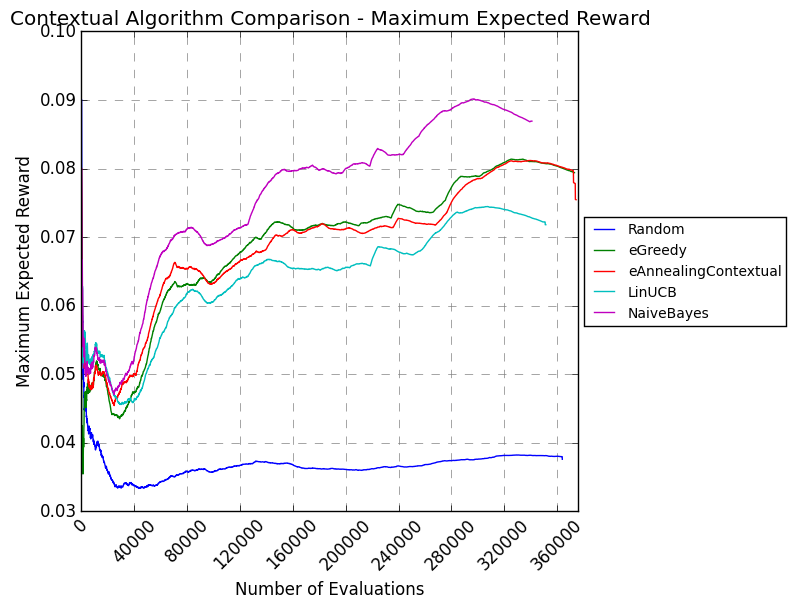
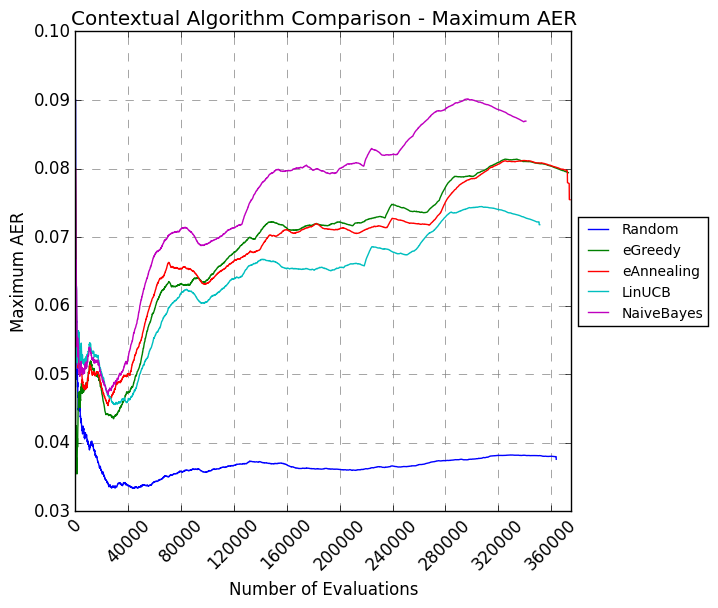
More tweaks to improve plot labels, titles, etc.

diff --git a/create_stdev_aer_plot_contextual.py b/create_stdev_aer_plot_contextual.py
@@ -14,14 +14,14 @@ data = np.genfromtxt('banditStDevAERSummary.csv', delimiter=',', names = True)
 fig = plt.figure()
 ax = fig.add_subplot(111)
 
-ax.set_title("Contextual Algorithm Comparison - Standard Deviation of Expected Reward")
+ax.set_title("Contextual Algorithm Comparison - Standard Deviation of AER")
 ax.set_xlabel('Number of Evaluations')
-ax.set_ylabel('Standard Deviation of Expected Reward')
+ax.set_ylabel('Standard Deviation of AER')
 
 ax.plot(data['t'],data['Random'], label='Random')
 ax.plot(data['t'],data['eGreedyContextual01'], label='eGreedy')
-ax.plot(data['t'],data['eAnnealingContextual'], label='eAnnealingContextual')
-#ax.plot(data['t'],data['SoftmaxContextual'], label='SoftmaxContextual')
+ax.plot(data['t'],data['eAnnealingContextual'], label='eAnnealing')
+#ax.plot(data['t'],data['SoftmaxContextual'], label='Softmax')
 ax.plot(data['t'],data['LinUCB01'], label='LinUCB')
 ax.plot(data['t'],data['NaiveBayesContextual'], label='NaiveBayes')
 

diff --git a/create_var_aer_plot_contextual.py b/create_var_aer_plot_contextual.py
@@ -14,14 +14,14 @@ data = np.genfromtxt('banditVarAERSummary.csv', delimiter=',', names = True)
 fig = plt.figure()
 ax = fig.add_subplot(111)
 
-ax.set_title("Contextual Algorithm Comparison - Variance of Expected Reward")
+ax.set_title("Contextual Algorithm Comparison - Variance of AER")
 ax.set_xlabel('Number of Evaluations')
-ax.set_ylabel('Variance of Expected Reward')
+ax.set_ylabel('Variance of AER')
 
 ax.plot(data['t'],data['Random'], label='Random')
 ax.plot(data['t'],data['eGreedyContextual01'], label='eGreedy')
-ax.plot(data['t'],data['eAnnealingContextual'], label='eAnnealingContextual')
-#ax.plot(data['t'],data['SoftmaxContextual'], label='SoftmaxContextual')
+ax.plot(data['t'],data['eAnnealingContextual'], label='eAnnealing')
+#ax.plot(data['t'],data['SoftmaxContextual'], label='Softmax')
 ax.plot(data['t'],data['LinUCB01'], label='LinUCB')
 ax.plot(data['t'],data['NaiveBayesContextual'], label='NaiveBayes')
 

diff --git a/create_max_aer_plot_contextual.py b/create_max_aer_plot_contextual.py
@@ -14,15 +14,15 @@ data = np.genfromtxt('banditMaxAERSummary.csv', delimiter=',', names = True)
 fig = plt.figure()
 ax = fig.add_subplot(111)
 
-ax.set_title("Contextual Algorithm Comparison - Maximum Expected Reward")
+ax.set_title("Contextual Algorithm Comparison - Maximum AER")
 
 ax.set_xlabel('Number of Evaluations')
-ax.set_ylabel('Maximum Expected Reward')
+ax.set_ylabel('Maximum AER')
 
 ax.plot(data['t'],data['Random'], label='Random')
 ax.plot(data['t'],data['eGreedyContextual01'], label='eGreedy')
-ax.plot(data['t'],data['eAnnealingContextual'], label='eAnnealingContextual')
-#ax.plot(data['t'],data['SoftmaxContextual'], label='SoftmaxContextual')
+ax.plot(data['t'],data['eAnnealingContextual'], label='eAnnealing')
+#ax.plot(data['t'],data['SoftmaxContextual'], label='Softmax')
 ax.plot(data['t'],data['LinUCB01'], label='LinUCB')
 ax.plot(data['t'],data['NaiveBayesContextual'], label='NaiveBayes')
 

diff --git a/create_min_aer_plot_contextual.py b/create_min_aer_plot_contextual.py
@@ -14,14 +14,14 @@ data = np.genfromtxt('banditMinAERSummary.csv', delimiter=',', names = True)
 fig = plt.figure()
 ax = fig.add_subplot(111)
 
-ax.set_title("Contextual Algorithm Comparison - Minimum Expected Reward")
+ax.set_title("Contextual Algorithm Comparison - Minimum AER")
 ax.set_xlabel('Number of Evaluations')
-ax.set_ylabel('Minimum Expected Reward')
+ax.set_ylabel('Minimum AER')
 
 ax.plot(data['t'],data['Random'], label='Random')
 ax.plot(data['t'],data['eGreedyContextual01'], label='eGreedy')
-ax.plot(data['t'],data['eAnnealingContextual'], label='eAnnealingContextual')
-#ax.plot(data['t'],data['SoftmaxContextual'], label='SoftmaxContextual')
+ax.plot(data['t'],data['eAnnealingContextual'], label='eAnnealing')
+#ax.plot(data['t'],data['SoftmaxContextual'], label='Softmax')
 ax.plot(data['t'],data['LinUCB01'], label='LinUCB')
 ax.plot(data['t'],data['NaiveBayesContextual'], label='NaiveBayes')
 

diff --git a/create_mean_aer_plot_contextual.py b/create_mean_aer_plot_contextual.py
@@ -14,15 +14,15 @@ data = np.genfromtxt('banditMeanAERSummary.csv', delimiter=',', names = True)
 fig = plt.figure()
 ax = fig.add_subplot(111)
 
-ax.set_title("Contextual Algorithm Comparison - Average Expected Reward")
+ax.set_title("Contextual Algorithm Comparison - Mean AER")
 
 ax.set_xlabel('Number of Evaluations')
-ax.set_ylabel('AER')
+ax.set_ylabel('Mean AER')
 
 ax.plot(data['t'],data['Random'], label='Random')
 ax.plot(data['t'],data['eGreedyContextual01'], label='eGreedy')
-ax.plot(data['t'],data['eAnnealingContextual'], label='eAnnealingContextual')
-#ax.plot(data['t'],data['SoftmaxContextual'], label='SoftmaxContextual')
+ax.plot(data['t'],data['eAnnealingContextual'], label='eAnnealing')
+#ax.plot(data['t'],data['SoftmaxContextual'], label='Softmax')
 ax.plot(data['t'],data['LinUCB01'], label='LinUCB')
 ax.plot(data['t'],data['NaiveBayesContextual'], label='NaiveBayes')
 

diff --git a/create_mean_aer_vs_time_plot.py b/create_mean_aer_vs_time_plot.py
@@ -14,10 +14,10 @@ data = np.genfromtxt('banditMeanAERVsTimeSummary.csv', delimiter=',', names = Tr
 fig = plt.figure()
 ax = fig.add_subplot(111)
 
-ax.set_title("Non-Contextual Algorithm Comparison - Average Expected Reward vs. Runtime")
+ax.set_title("Non-Contextual Algorithm Comparison - Mean AER vs. Runtime")
 #ax.set_title("Contextual Algorithm Comparison - Average Expected Reward vs. Runtime")
 ax.set_xlabel('Runtime (s)')
-ax.set_ylabel('AER')
+ax.set_ylabel('Mean AER')
 
 ax.plot(data['TimeBin'],data['Random'], label='Random')
 ax.plot(data['TimeBin'],data['MostClicked'], label='MostClicked')

diff --git a/create_stdev_aer_plot.py b/create_stdev_aer_plot.py
@@ -14,9 +14,9 @@ data = np.genfromtxt('banditStDevAERSummary.csv', delimiter=',', names = True)
 fig = plt.figure()
 ax = fig.add_subplot(111)
 
-ax.set_title("Non-Contextual Algorithm Comparison - Standard Deviation of Expected Reward")
+ax.set_title("Non-Contextual Algorithm Comparison - Standard Deviation of AER")
 ax.set_xlabel('Number of Evaluations')
-ax.set_ylabel('Standard Deviation of Expected Reward')
+ax.set_ylabel('Standard Deviation of AER')
 
 ax.plot(data['t'],data['Random'], label='Random')
 ax.plot(data['t'],data['MostClicked'], label='MostClicked')

diff --git a/create_var_aer_plot.py b/create_var_aer_plot.py
@@ -14,9 +14,9 @@ data = np.genfromtxt('banditVarAERSummary.csv', delimiter=',', names = True)
 fig = plt.figure()
 ax = fig.add_subplot(111)
 
-ax.set_title("Non-Contextual Algorithm Comparison - Variance of Expected Reward")
+ax.set_title("Non-Contextual Algorithm Comparison - Variance of AER")
 ax.set_xlabel('Number of Evaluations')
-ax.set_ylabel('Variance of Expected Reward')
+ax.set_ylabel('Variance of AER')
 
 ax.plot(data['t'],data['Random'], label='Random')
 ax.plot(data['t'],data['MostClicked'], label='MostClicked')

diff --git a/create_max_aer_plot.py b/create_max_aer_plot.py
@@ -14,10 +14,10 @@ data = np.genfromtxt('banditMaxAERSummary.csv', delimiter=',', names = True)
 fig = plt.figure()
 ax = fig.add_subplot(111)
 
-ax.set_title("Non-Contextual Algorithm Comparison - Maximum Expected Reward")
+ax.set_title("Non-Contextual Algorithm Comparison - Maximum AER")
 
 ax.set_xlabel('Number of Evaluations')
-ax.set_ylabel('Maximum Expected Reward')
+ax.set_ylabel('Maximum AER')
 
 ax.plot(data['t'],data['Random'], label='Random')
 ax.plot(data['t'],data['MostClicked'], label='MostClicked')

diff --git a/create_min_aer_plot.py b/create_min_aer_plot.py
@@ -14,9 +14,9 @@ data = np.genfromtxt('banditMinAERSummary.csv', delimiter=',', names = True)
 fig = plt.figure()
 ax = fig.add_subplot(111)
 
-ax.set_title("Non-Contextual Algorithm Comparison - Minimum Expected Reward")
+ax.set_title("Non-Contextual Algorithm Comparison - Minimum AER")
 ax.set_xlabel('Number of Evaluations')
-ax.set_ylabel('Minimum Expected Reward')
+ax.set_ylabel('Minimum AER')
 
 ax.plot(data['t'],data['Random'], label='Random')
 ax.plot(data['t'],data['MostClicked'], label='MostClicked')

diff --git a/create_mean_aer_plot.py b/create_mean_aer_plot.py
@@ -14,10 +14,10 @@ data = np.genfromtxt('banditMeanAERSummary.csv', delimiter=',', names = True)
 fig = plt.figure()
 ax = fig.add_subplot(111)
 
-ax.set_title("Non-Contextual Algorithm Comparison - Average Expected Reward")
+ax.set_title("Non-Contextual Algorithm Comparison - Mean AER")
 
 ax.set_xlabel('Number of Evaluations')
-ax.set_ylabel('AER')
+ax.set_ylabel('Mean AER')
 
 ax.plot(data['t'],data['Random'], label='Random')
 ax.plot(data['t'],data['MostClicked'], label='MostClicked')

diff --git a/create_mean_aer_plot_with_ranges.py b/create_mean_aer_plot_with_ranges.py
@@ -17,9 +17,9 @@ data3 = np.genfromtxt('banditMaxAERSummary.csv', delimiter=',', names = True)
 fig = plt.figure()
 ax = fig.add_subplot(111)
 
-ax.set_title("Average Expected Reward Range vs. Evaluations - Random Algorithm")
+ax.set_title("Mean AER Range vs. Evaluation Number - Random Algorithm")
 ax.set_xlabel('Number of Evaluations')
-ax.set_ylabel('AER')
+ax.set_ylabel('Mean AER')
 
 minimum = data2['Random']
 mean = data['Random']
